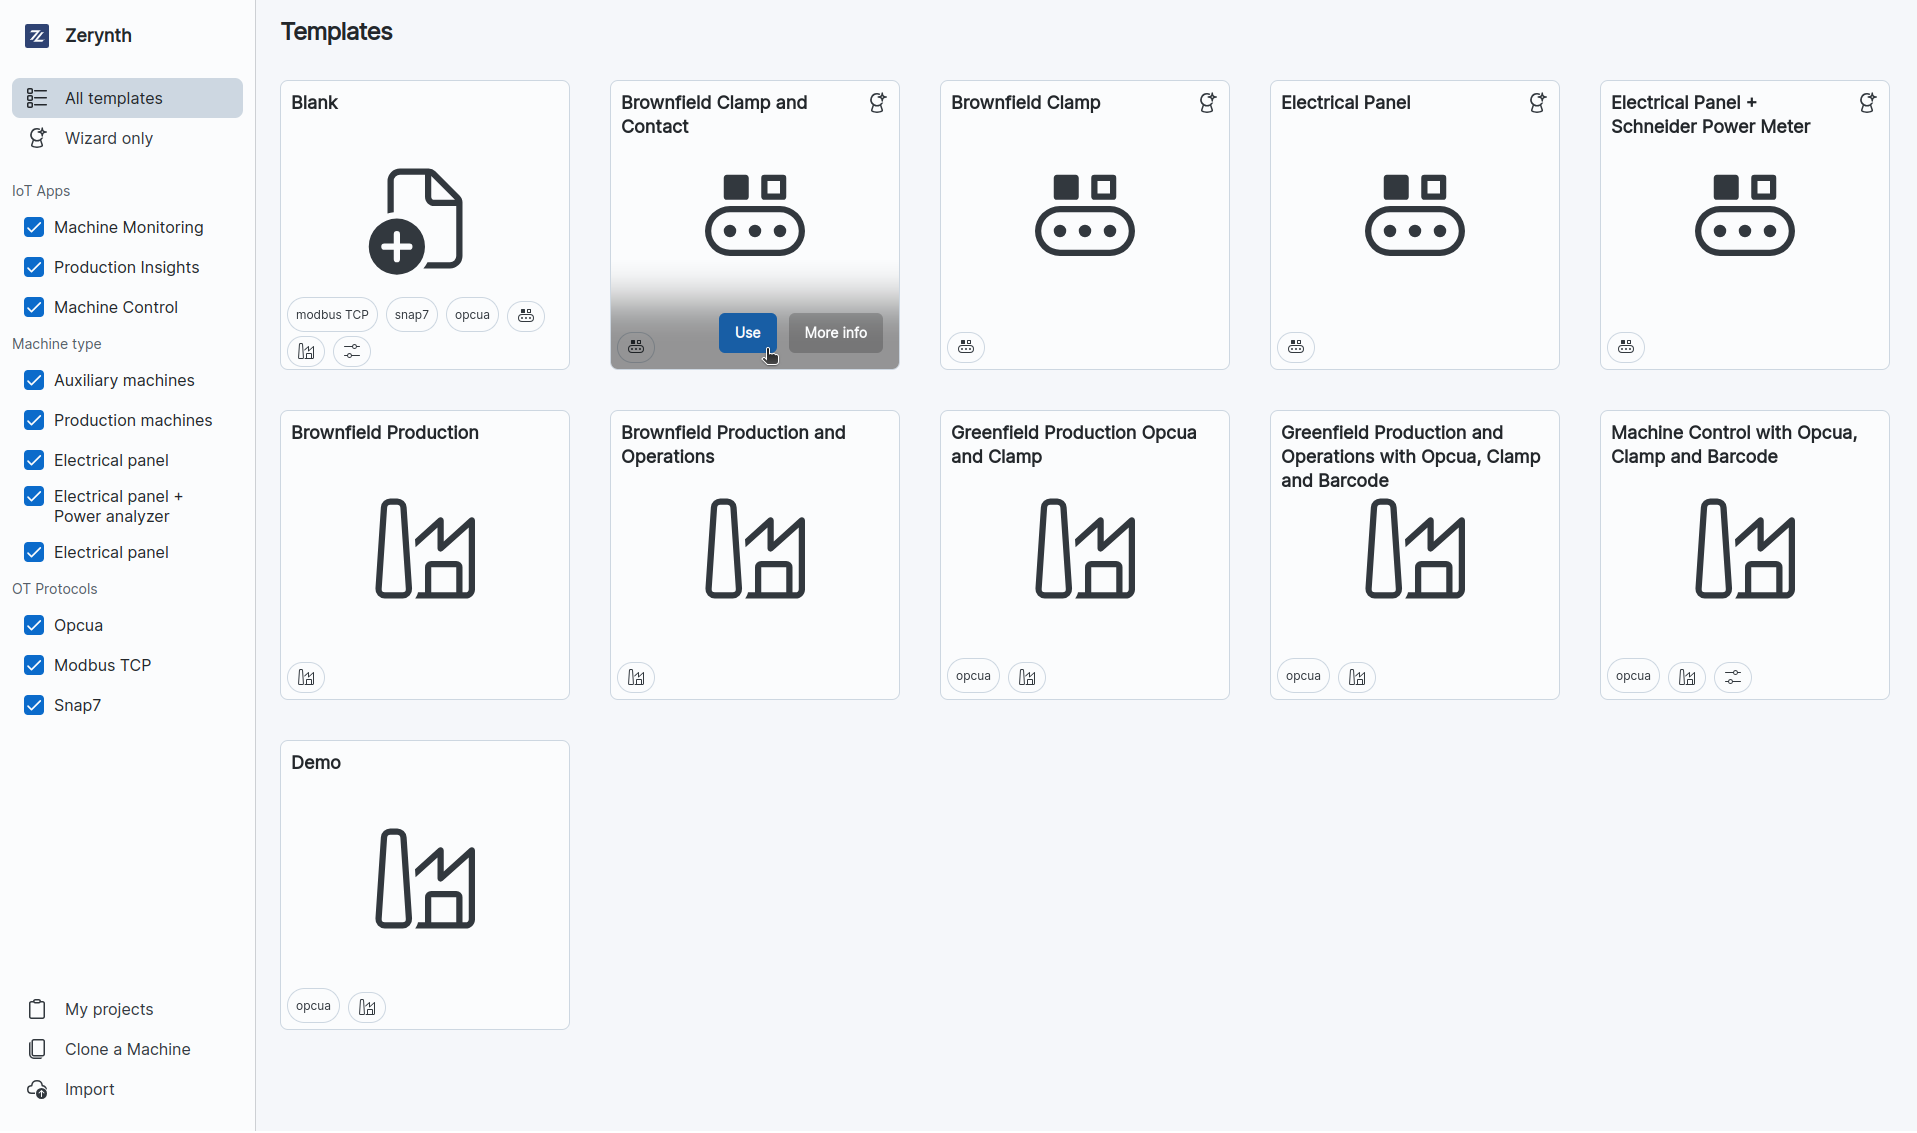
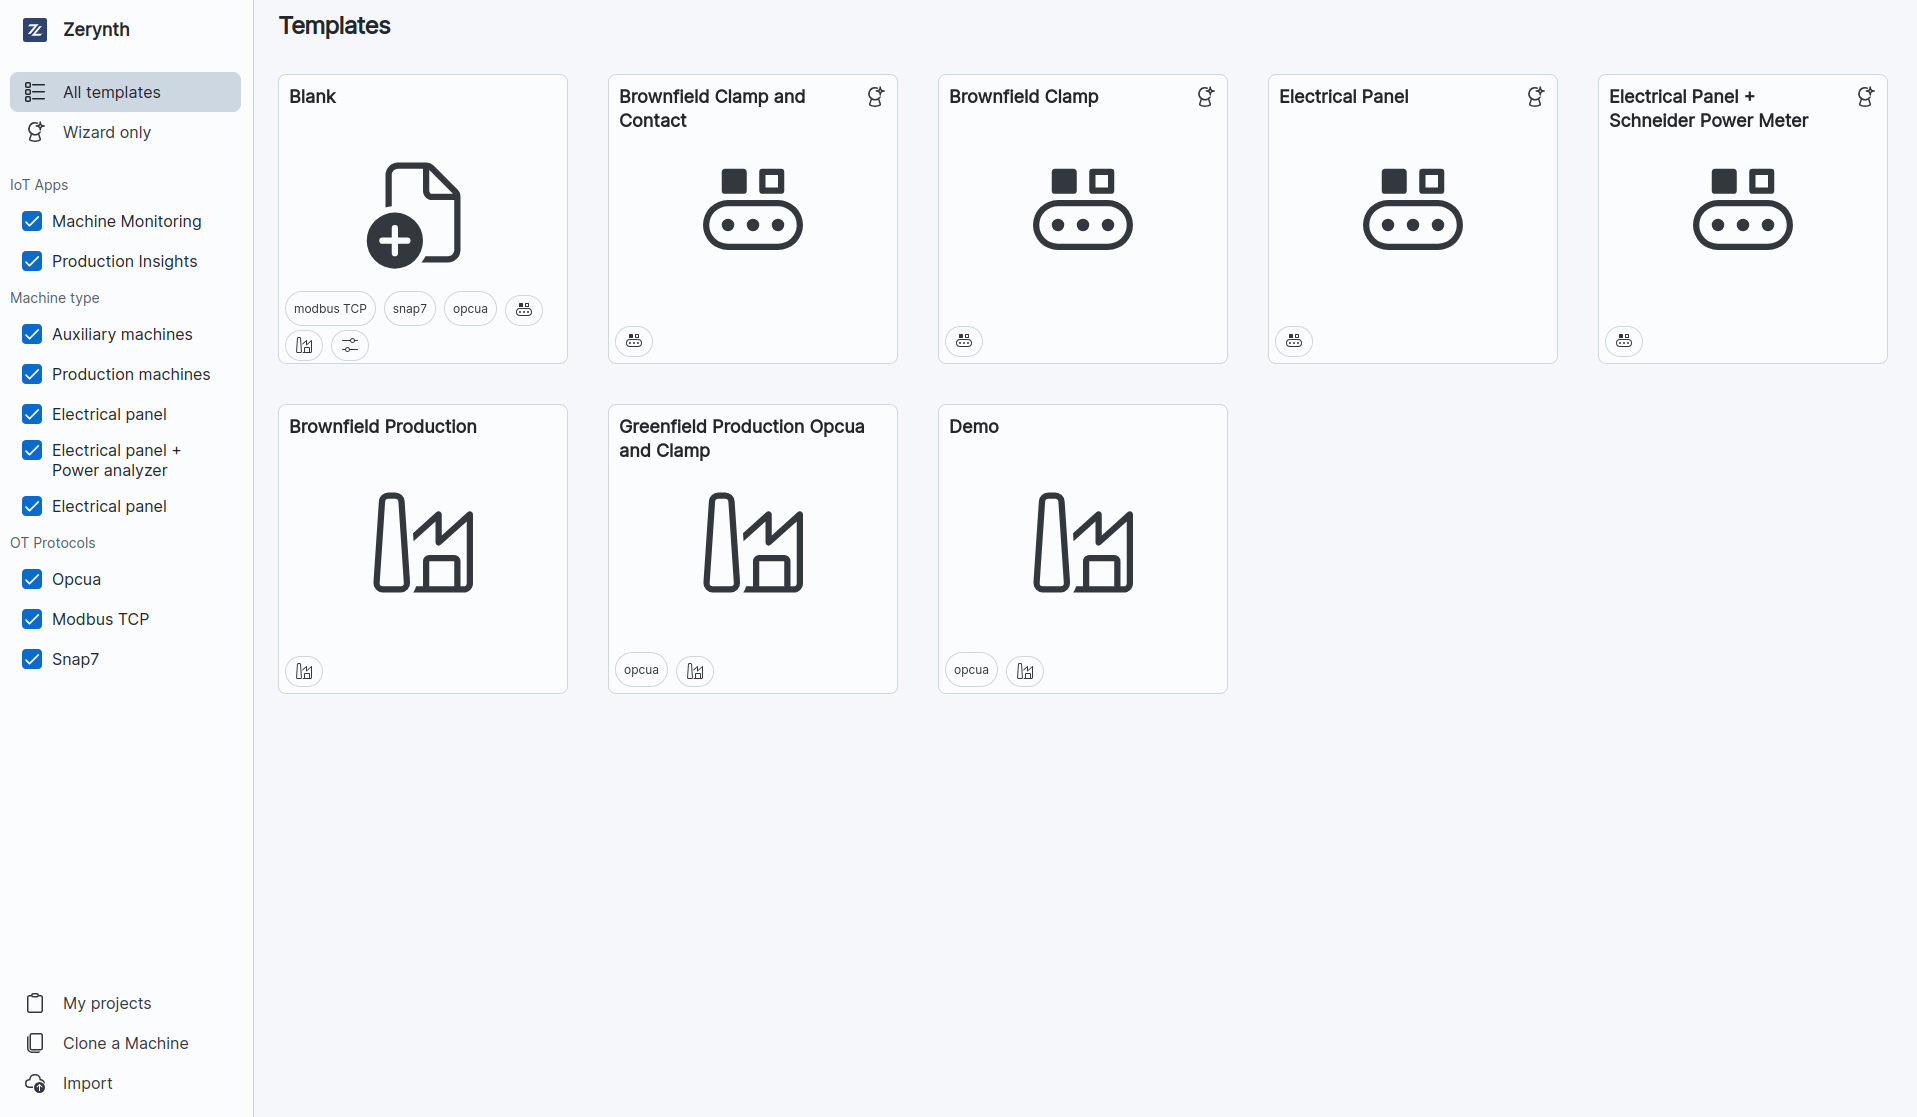
docs

diff --git a/docs/partners/machines_connection_and_management/machines_connection_and_management/03_ZerynthAdvancedConfigurator.md b/docs/partners/machines_connection_and_management/machines_connection_and_management/03_ZerynthAdvancedConfigurator.md
@@ -1,16 +1,357 @@
 # Zerynth Advanced Configurator
 
-## Export a Project
+## Graph Editor
+
+The Graph Editor allows you to configure your device in a more detailed way, by using a graph that represents the configuration of your device.
+
+The Graph that you create represents the flow of data from the device to the cloud, to the left of the graph you can find the root of the graph, that represents the machine, and continuing to the right you can find a first layer of nodes that represents the sensor connected to the device, after that you can find one or more layers of nodes that takes in input some data, compute new information and send it in output to the next layer of nodes.
+In the last layer of nodes you can find the nodes that describe wich type of payload the device will send to the cloud.
+
+### Structure of the editor
+
+The editor is composed by 3 main sections:
+
+- *Editor*: In the left side of the page, there is the editor, where you can see the structure of the graph.
+- *Node Settings*: In the right side of the page, there is the node settings section, where you can see the settings of the node that you have selected.
+- *Actions*: On the top right corner of the page, there is the actions section, where you can find the buttons to add a new node, save the configuration, export the configuration and the deploy button, that allows you to continue the configuration process.
+
+![Graph Editor](./03_ZerynthAdvancedConfigurator_img/Editor.png)
+
+### Using the Editor
+
+You can access the editor by using a template that allows you to use the editor, if the template that you have selected support the wizard, you can choose to convert the configuration mode from wizard to editor by clicking on the **Convert to Advanced** button on the top right corner of the page.
+
+If you are using a template, there are one or more nodes that are colored in green, those nodes are the nodes that require a configuration, you can configure them by clicking the node, and then editing the settings of the node in the *node settings* section.
+
+### Editing the graph
+
+You can edit the graph by adding new nodes, connecting nodes, and editing the settings of the nodes.
+
+For adding a new node, you have to click on the **Add Node** button on the top right corner of the page, and then select the node that you want to add.
+To establish a connection between two nodes, follow these steps: open the settings of the target node, specify which node you want to connect it to, and designate which output from the source node should link to the input of the selected node.
+
+!!! note
+    Make sure to save the settings of the node after you have made the changes.
+
+There are four categories of nodes:
+
+**Sensors**:
+
+- Analog Sensor
+- Current Sensor
+- Power Sensor
+- Voltage Sensor
+- Resistive Sensor
+- Level Sensor
+- Job Bar Code
+
+**Greenfield protocols**:
+
+- Modbus
+- OPCUA
+- Snap7
+
+**Computational Nodes**:
+
+- Aggregator
+- Low Threshold
+- High Threshold
+- Status
+- Multi Status
+- Chronometer
+- Multi Chronometer
+- Pulse
+- Counter
+- Delta Counter
+- Integrator
+- Multi Integrator
+- Integrator Idx
+- Binary Predicate
+- Binary Operator
+- Unary Predicate
+- And Predicates
+- Or Predicates
+
+**Output nodes**:
+
+- Custom Output Node
+- Custom Event Node
+- Production Insights
+- Machine Monitoring
+
+#### VoltageSensor, CurrentSensor, AnalogSensor, ResistiveSensor, PowerSensor
+
+- *Name*: The name of the node. Name must be unique in the graph;
+
+- *Chtype*: represents the sensor input’s type. The field’s value can be: Voltage, Current, Resistive, Current_AC
+
+- *SPS*: samples per second. Integer. Valid range depends on the actual ADC on the board (e.g.: 128, 250, …, 3300). The firmware takes care of out-of-range values. It is the sample rate of the ADC;
+
+- *PGA*: Programmable Gain Amplifier. Integer. It is designed to increase the dynamic range by amplifying low-amplitude signals before they are fed to the ADC. Valid range depends on the actual ADC on the board (e.g.: 1, 2, …);
+
+- *Samples*: The number of digital samples taken from the ADC when the read operation is performed;
+
+- *Conversion*: represents the analog to digital conversion of the sensor. The field’s value can be: No conversion, Linear conversion, Table conversion, Power conversion, Current conversion
+
+- *Params*: List of the conversion’s parameters. This field is not visible if conversion=NoConversion;
+
+- *Channel*: represent the input terminal number for the clamp connection;
+
+- *Exp (Only PowerSensor)*: The expansion you want to use, the value can be: None, AIN1, IO1
+
+#### LevelSensor
+
+- *Name*: The name of the node. Name must be unique in the graph;
+
+- *Pull*: The pull-up or pull-down resistor to be set on the input. String. Valid values are: None, Up, Down
+
+- *Debounce*: The debounce time in msec. Integer;
+
+- *Inverted*: The active state of the signal. Boolean. True = active on 0, False = active on 1;
+
+- *Channel*: represent the input terminal number for the clamp connection;
+
+- *Exp*: The expansion you want to use, the value can be: None, AIN, IO1
+
+#### ModbusNode
+
+- *Name*: The name of the node. Name must be unique in the graph;
+
+- *Connection Type*: You can choose between: TCP, Serial. Both options will display the configuration settings for the selected connection.
+
+- *BaudRate* (if connection is serial): The baudrate of the serial connection depending on the slave device configuration;
+
+- *Serial Parity* (if connection is serial): The parity of the serial connection. It can be none, even or odd depending on the slave device configuration;
+
+- *StopBits* (if connection is serial): The stopbits of the connection. It can be 0 or 1 depending on the slave device configuration;
+
+- *Slave Address* (if connection is serial): the address of the slave device (e.g. a Schneider power meter). Default value is 1;
+
+- *IP Address* (if connection is TCP): The IP address of the slave device;
+
+- *Port* (if connection is TCP): The port of the slave device;
+
+- *Endianess*: The endianness describes the byte importance order. It can be: Little, Big
+
+This node needs a configuration file for its registers, you can create the file directly in the settings node by pressing the `Create` button.
+
+You can also upload an already existing file by clicking the `Upload` button.
+
+Once clicked the `Create` button you can add the Modbus Register.
+
+If you don't know how the file should be formatted, you can click the `Template` button to download a template.
+
+You can edit the register settings by clicking the pencil button on the upper right corner of the register sections:
+
+##### Modbus Register Settings
+
+Each register has its own settings that can change with the register mode:
+
+- *Mode*: a register can have three modes: Basic, Splitted, Composed
+
+A register in Basic Mode has the following settings:
+
+- *Name*: The name of the register. Name must be unique;
+
+- *Register Length*: The register length in bytes;
+
+- *Mult Factor*: This field is used to multiply the register output by a constant;
+
+- *Register Type*: This field’s value can be: Holding, Coil, Input, Discrete
+
+- *Value Type*: This field’s value can be: BOOL, INT16, UINT16, INT32, UINT32, INT64, UINT64, FLOAT32, STRING
+
+If the register is in Splitted Mode, it has two more fields:
+
+- *Mask*: a mask applied to the register value in order to filter the register (useful when the register value contains more than one variable);
+
+- *RIght Shift*: indicates by how much the result of the mask has to be shifted to be aligned on the right;
+
+A register in Composed Mode has the following settings:
+
+- *Name*: The name of the register. Name must be unique;
+
+- *Value Type*: The type of register that you are reading. This field's value can be: BOOL, INT16, UINT16, INT32, UINT32, INT64, UINT64, FLOAT32, STRING
+
+- *Register List*: contains the list of the sub-register composing the register. Each register will then take as configuration the same fields as a splitted mode register;
+
+#### OPCUA Node
+
+Required parameter:
+
+- *Address*: The IP address of the OPCUA server;
+
+- *Port*: The port of the OPCUA server;
+
+Optional parameters:
+
+- *Username*: The username to access the OPCUA server;
+
+- *Password*: The password to access the OPCUA server;
+
+- *Application URI*: The URI used during the certificate/key creation process;
+
+- *Server keys*: The path to the server keys file. Used to enable encryption;
+
+- *Server certificates*: The path to the server certificates file. Used to enable encryption;
+
+- *Opcua Commands*: Here you can define the bidirectional commands that will be sent to the OPCUA server. You can add a new command by clicking the `New Command` button. For each command you can set the following settings:
+
+  - *Command Name*: The name of the command. Name must be unique;
+
+  - *Identifier*: The value of the identifier is a number;
+
+  - *Name Space*: The value of the namespace is a number;
+
+  - *Type*: The node value type (not used at the moment but required for parsing).
+  
+- *Opcua Nodes*: Any Opcua Node requires a configuration file for its nodes. You can choose to upload an existing file or create a new one. The uploaded file can be a CSV or a JSON file.
+You can find a CSV template by clicking on the `Template` button in the node settings.
+For each node you can set the following settings:
+
+  - *Identifier*: The value of the identifier is a number;
+
+  - *Name Space*: The value of the namespace is a number;
+
+  - *Type*: The node value type (not used at the moment but required for parsing).
+
+#### Snap7 Node
+
+The Snap7 nodes have the following settings:
+
+- *IP address*: The IP address for the TCP connection;
+
+- *Port*: The port for the TCP connection;
+
+- *Endianness*: The endianness describes the byte importance order. It can be: Little, Big
+
+The Snap7 nodes require a configuration file for its registers. You can choose to upload an existing file or create a new one. The uploaded file can be a CSV or a JSON file.
+
+You can find a CSV template by clicking on the `Template` button in the node settings.
+
+For each register you can set the following settings:
+
+- *Name*: The name of the register. Name must be unique;
+
+- *Type*: The register type. DB (data block) is the most used, the value can be: DB, PE, PA, MK, CT, TM
+
+- *DBNum*: Represents the data block number;
+
+- *Start*: Represents the starting address of the register;
+
+- *Size*: Represents the size of the register in bytes;
+
+- *Data Type*: The type of register that you are reading. This field's value can be: BOOL, INT16, UINT16, INT32, UINT32, INT64, UINT64, FLOAT32, STRING
+
+#### Aggregator
+
+The Aggregator nodes have the following settings:
+
+- *Name*: The name of the node. Name must be unique.
+
+It is possible to enable advanced settings, and edit the following parameters:
+
+- *Debounce*: The debounce time in msec. Integer;
+
+- *Hi*: The high threshold value;
+
+- *Lo*: The low threshold value;
+
+#### LoThreshold, HiThreshold
+
+The LoThreshold and HiThreshold nodes have the following settings:
+
+- *Name*: The name of the node. Name must be unique;
+
+- *Threshold*: The threshold value;
+
+- *Debounce*: The debounce time in msec. Integer;
+
+#### Status
+
+The Status Nodes output the label of the input that is set to 1 in priority order. The Status Nodes also have a **defaultLabel** option that allows you to set a label to be sent if none of the inputs are set to 1.
+
+#### MultiStatus
+
+MultiStatus behaves similarly to the Status Node, but it has as many outputs as labels.
+MultiStatus nodes do not have the default label.
+
+#### Chronometer
+
+This node usually follows a Status node and returns the time that a status node has spent in a specific status using the status index if labels are not defined, otherwise it uses the label value.
+
+#### MultiChronometer
+
+This node takes the output of a MultiStatus node as input and returns a list containing, for each element of the input, the time spent outside the default status (0).
+
+#### Pulse
+
+The node checks the input value and returns 1 if the current input value is greater than the previous input value, it returns 0 otherwise.
+
+Pulse Node has the following Settings:
+
+- *Duration*: The value of the node is updated if the pulse is longer than duration.
+
+#### Counter
+
+This node increments its internal counter by increment if it isn’t set to 0, otherwise it increments the counter by the value of the input node.
+
+Counter Node has the following settings:
+
+- *Increment*: The value to be added to the counter every acq_period. Set it to 0 to increment the counter by the value of the input node.
+
+#### DeltaCounter
+
+This node takes as input the output of a counter and computes the delta between two readings
+
+#### Integrator
+
+An integrator is very similar to an accumulator. It has a single input, n labels and n outputs. Based on the selected label, the input value is added to the label value of the inner array,
+and the output is the final status of the inner array.
+
+#### MultiIntegrator
+
+A multi integrator has a similar behavior to the integrator, but it has n inputs and n outputs. Based on the selected label or labels, the input values are added to the label value of the inner array,
+and the output is the final status of the inner array.
+
+#### IntegratorIdx
+
+An integrator idx has a single input, a single label, an inner array of n places and n outputs. Every value has a `tot` flag, which indicates whether the aggregate (1) or the average (0) of
+the values is displayed.
+
+#### BinPredicate
+
+The BinPredicate node performs a logical predicate between data taken from two different inputs. For each input, you can choose whether to consider another node as input or use a constant value.
+
+Through the *operator* attribute, you can choose the predicate's operator.
+
+#### BinOperator
+
+The BinOperator node performs an arithmetic operation between data taken from two different inputs. For each input, you can choose whether to consider another node as input or use a constant value.
+
+Through the *operator* attribute, you can select the operator of the predicate.
+
+#### UnaryPredicate
+
+The UnaryPredicate node allows for the negation of the input.
+
+#### AndPredicates and OrPredicates
+
+The AndPredicates and OrPredicates nodes take as input a list of bools and return the evaluation of the conjunction/disjunction between the input values.
+
+### Export a Project
 
 You can export a project by clicking on the export button on the top right corner of the page both if you are using the Graph Editor or the Wizard Mode. Once you have clicked on the export button, it will start a download of a ```.json``` file containing your project.
 
 !!! warning
-    Do not Edit the ``.json``` file containing your project, if you want to edit your project use the configurator.
+    Do not Edit the ```.json``` file containing your project, if you want to edit your project use the configurator.
 
-## Import a Project
+### Import a Project
 
 From the main page of the configurator you can import a project by clicking on the import button on the bottom left corner of the page. Once you have clicked on the import button, you will be able to select a ```.json``` file containing your project from your computer.
 
-## Save a Project on the Configurator
+If the project you are importing was built using the wizard mode, it will be opened in the wizard mode, otherwise it will be opened in the Graph Editor.
 
-## Edit old configuration
+### Save a Project on the Configurator
+
+In any time during the configuration process you can save your project by clicking on the "Save to my Projects" button on the bottom left corner of the page. Once you have clicked on the button, you will be able to add a description for your project and save it.

diff --git a/docs/partners/machines_connection_and_management/machines_connection_and_management/02_GettingStarted.md b/docs/partners/machines_connection_and_management/machines_connection_and_management/02_GettingStarted.md
@@ -5,7 +5,6 @@ The Configurator Tool allows you to create and add new devices to your account, 
 The configurator is accessible by clicking the `+ New` button located at the top right corner of the "Overview" Page. It offers a variety of templates that you can utilize to effortlessly create your customized device through a swift and user-friendly configuration process.
 
 ![Configurator](./02_GettingStarted_img/OverviewPage.png)
-<!-- <img src="./02_GettingStarted_img/Schermata%20del%202023-12-01%2010-33-23.png" alt="Configurator" width="800" ></img> -->
 
 Some templates support the Wizard Mode, which allows you to configure your device in a few simple steps. The Wizard Mode consists of a series of steps that guide you through the configuration process.
 You can decide to switch to the Advanced Mode at any time, which allows you to configure your device in a more detailed way, by using the Graph Editor.
@@ -24,16 +23,13 @@ You can filter by:
 ## Templates
 
 - **Blank**: The blank template allows you to create a new configuration from scratch, you can choose if create the configuration using the Wizard Mode or the Graph Editor.
-- **Brownfield Clamp and Contact**: ...
-- **Brownfield Clamp**: ...
-- **Electrical Panel**: ...
-- **Electrical Panel with Schneider Power Meter**: ...
-- **Brownfield Production**: ...
-- **Brownfield Production and Operations**: ...
-- **Brownfield Production Opcua and Clamp**: ...
-- **Greenfield Production Operations with Opcua, Clamp and Bar-Code**: ...
-- **Greenfield Machine Control With Opcua, Clamp and Bar-Code**: ...
-- **Demo**: ...
+- **Brownfield Clamp and Contact**
+- **Brownfield Clamp**
+- **Electrical Panel**
+- **Electrical Panel with Schneider Power Meter**
+- **Brownfield Production**
+- **Brownfield Production Opcua and Clamp**
+<!-- - **Demo** -->
 
 You can also access to *My Project* page by clicking on the button on the bottom left corner of the page, here you can find all of your custom templates that you have created. You can use them to create new configurations.
 
